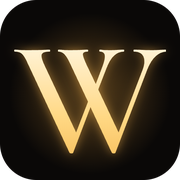
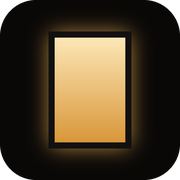
Иконка вкладки: светящаяся рамка

diff --git a/index.html b/index.html
@@ -7,9 +7,9 @@
 <meta name="viewport" content="width=device-width, initial-scale=1, viewport-fit=cover">
 <title>PROSWET — световая рамка для постеров</title>
 <link href="fonts/fonts.css" rel="stylesheet">
-<link rel="icon" href="favicon.png?v=3" type="image/png" sizes="192x192">
-<link rel="icon" href="favicon.ico?v=3" sizes="32x32">
-<link rel="apple-touch-icon" href="apple-touch-icon.png?v=3">
+<link rel="icon" href="favicon.png?v=5" type="image/png" sizes="192x192">
+<link rel="icon" href="favicon.ico?v=5" sizes="32x32">
+<link rel="apple-touch-icon" href="apple-touch-icon.png?v=5">
 <meta name="theme-color" content="#05070b">
 <style>
   :root {

diff --git a/privacy.html b/privacy.html
@@ -1,7 +1,7 @@
 <!doctype html>
 <html lang="ru"><head><meta charset="utf-8"><meta name="viewport" content="width=device-width, initial-scale=1">
 <title>Политика обработки персональных данных — PROSWET</title>
-<link rel="icon" href="favicon.png?v=3" type="image/png"><meta name="theme-color" content="#05070b">
+<link rel="icon" href="favicon.png?v=5" type="image/png"><meta name="theme-color" content="#05070b">
 <link href="fonts/fonts.css" rel="stylesheet">
 <style>
 :root{--bg:#05070b;--ink:#f2f5fa;--muted:#98a1b3;--line:rgba(255,255,255,.09);--acc:255,208,40}

diff --git a/oferta.html b/oferta.html
@@ -1,7 +1,7 @@
 <!doctype html>
 <html lang="ru"><head><meta charset="utf-8"><meta name="viewport" content="width=device-width, initial-scale=1">
 <title>Публичная оферта — PROSWET</title>
-<link rel="icon" href="favicon.png?v=3" type="image/png"><meta name="theme-color" content="#05070b">
+<link rel="icon" href="favicon.png?v=5" type="image/png"><meta name="theme-color" content="#05070b">
 <link href="fonts/fonts.css" rel="stylesheet">
 <style>
 :root{--bg:#05070b;--ink:#f2f5fa;--muted:#98a1b3;--line:rgba(255,255,255,.09);--acc:255,208,40}
